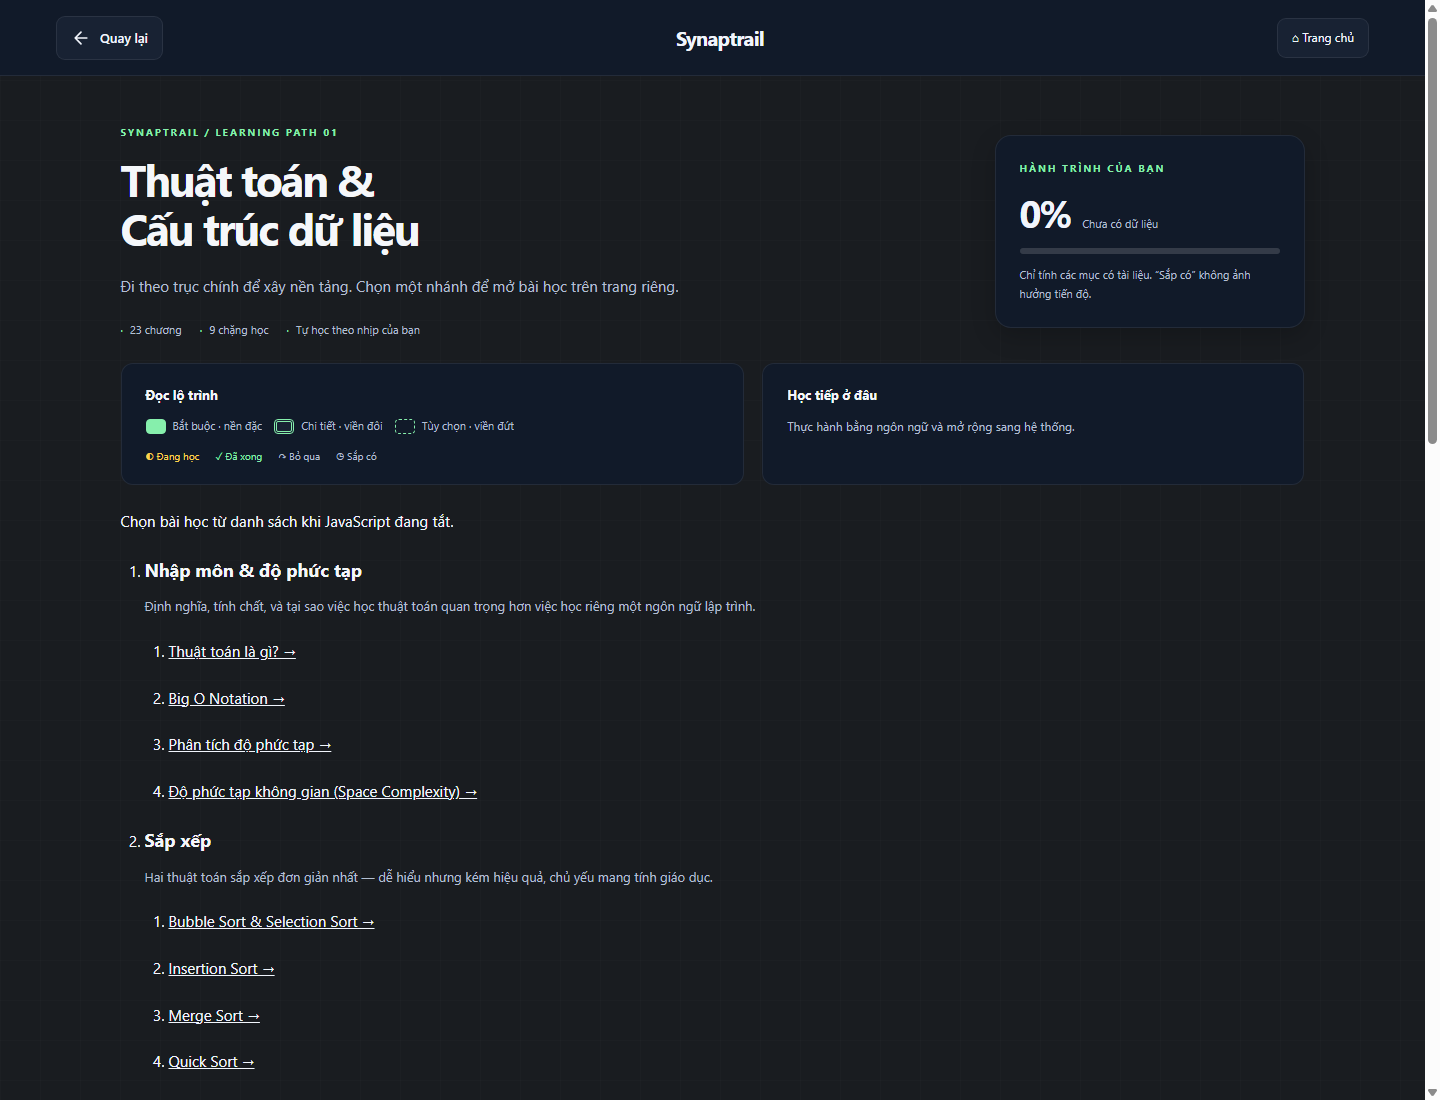
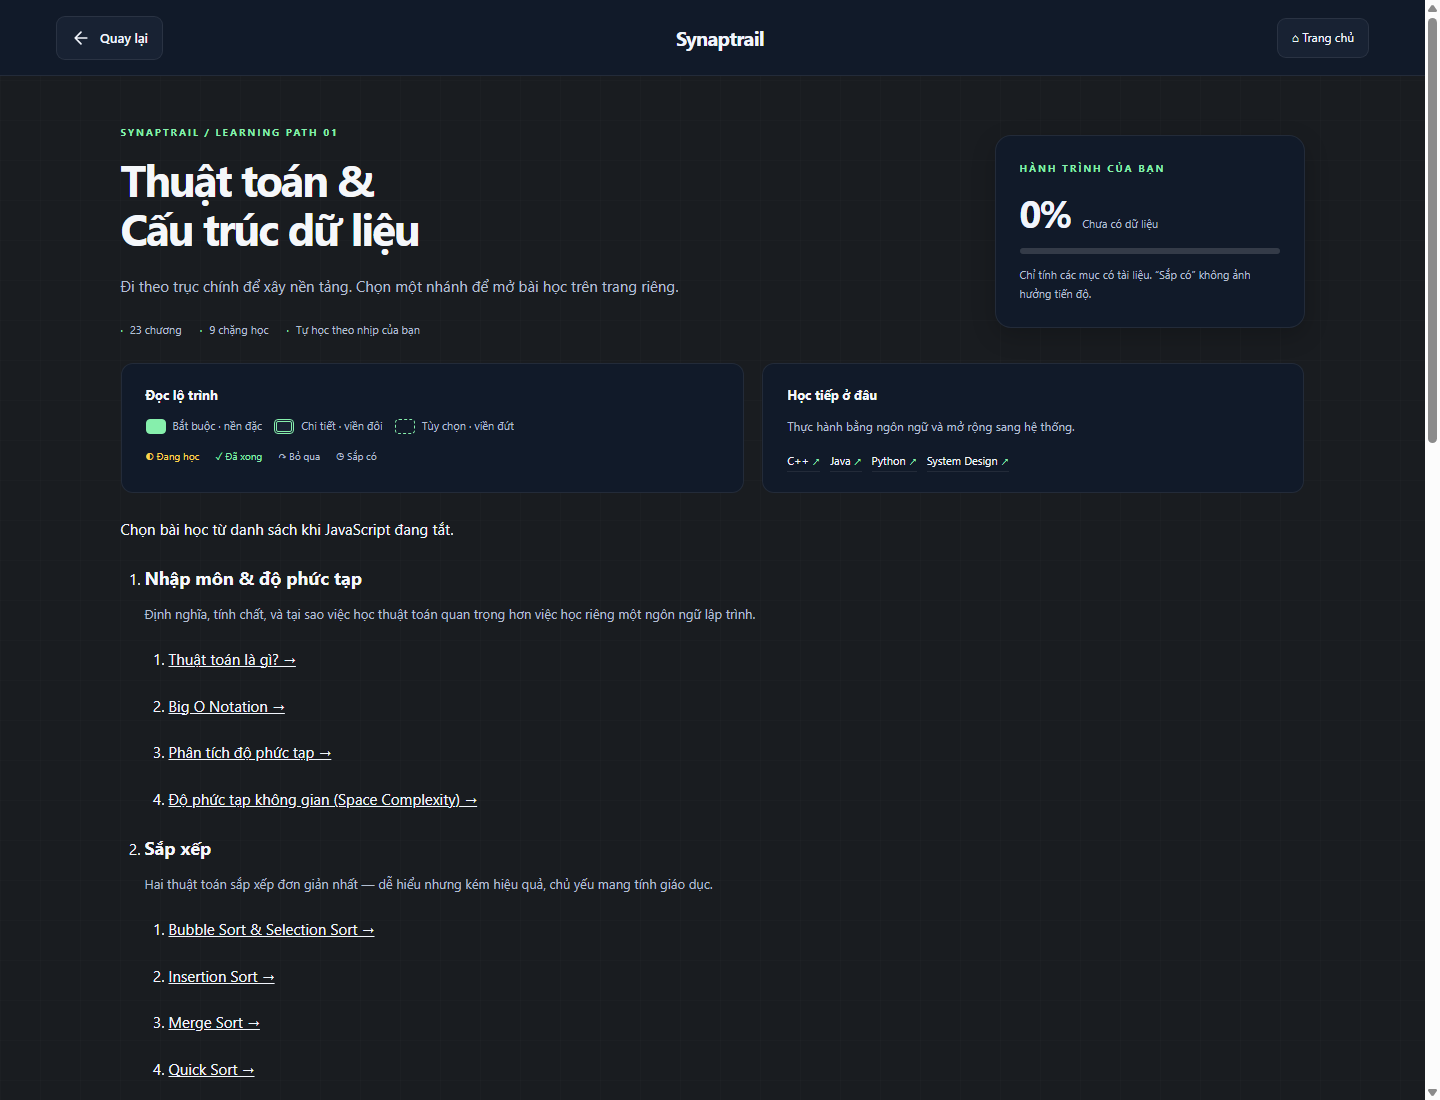
Oct 15, 2026, 12:57 PM

Changed region(s): [[0.0938, 0.4636, 0.5312, 0.9891], [0.6562, 0.4018, 0.6875, 0.4327], [0.5938, 0.4018, 0.625, 0.4327]]

diff --git a/assets/algorithm-pages.js b/assets/algorithm-pages.js
@@ -15,7 +15,7 @@
     const quizData=globalThis.SynaptrailAlgorithmQuizzes;if(!quizData)return;
     const select=$('ap-quiz-select');Object.entries(quizData.chapters).forEach(([id,q])=>{const option=make('option','',q.title);option.value=id;select.append(option);});
     function showQuiz(id){
-      const area=$('ap-quiz-area');area.replaceChildren();$('ap-message').textContent='';const quiz=quizData.chapters[id];select.value=quiz?id:'';
+      const area=$('ap-quiz-area');area.replaceChildren();$('ap-message').textContent='';const quiz=Object.hasOwn(quizData.chapters,id)?quizData.chapters[id]:null;select.value=quiz?id:'';
       document.querySelectorAll('[data-quiz-back]').forEach(a=>a.href=quiz?id+'.html':'../roadmap/thuat-toan.html');
       if(!quiz){$('ap-quiz-title').textContent='Quiz Thuật toán';if(id)notify('Chương này chưa có quiz. Chọn một chương khác trong danh sách.');return;}
       $('ap-quiz-title').textContent='Quiz · '+quiz.title;document.title='Quiz '+quiz.title+' | Synaptrail';
